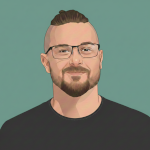
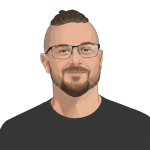
Design and profile image improvements

diff --git a/src/frontend/styles/theme.css b/src/frontend/styles/theme.css
@@ -6,7 +6,7 @@
 
   /* COLOUR SCHEME */
   --colour-black: #000000;
-  --colour-gray: #888888;
+  --colour-gray: #999999;
   --colour-white: #FFFFFF;
   --colour-highlight: #23C5B0;
   --colour-background: var(--colour-black);
@@ -15,10 +15,10 @@
   --colour-tertiary: #115F55;
 
   /* LINKS */
-  --link-decoration-default: underline wavy var(--colour-tertiary) 2px;
-  --link-decoration-nav: underline wavy var(--colour-secondary) 2px;
-  --link-decoration-active: underline wavy var(--colour-highlight) 2px;
-  --link-decoration-underline-offset: 6px;
+  --link-decoration-default: underline solid var(--colour-tertiary) 1px;
+  --link-decoration-nav: underline solid var(--colour-secondary) 1px;
+  --link-decoration-active: underline solid var(--colour-highlight) 1px;
+  --link-decoration-underline-offset: 7px;
 
   /* CODE BLOCKS */
   --colour-code-method: var(--colour-highlight);

diff --git a/src/frontend/styles/content.css b/src/frontend/styles/content.css
@@ -92,20 +92,19 @@ a:focus {
 }
 
 .header-title .site-link {
+  color: var(--colour-tertiary);
   display: flex;
   flex-direction: row;
   align-items: center;
   gap: 12px;
-  color: var(--colour-black);
   text-decoration: none;
 }
 
 .site-avatar {
-  width: 84px;
-  height: 84px;
+  width: 150px;
+  height: 150px;
   border-radius: 50%;
-  border: 1px solid var(--colour-secondary);
-  margin-right: 6px;
+  margin-right: 16px;
 }
 
 .site-name {
@@ -336,6 +335,8 @@ ul.posts-list .post-date {
 .content-body em,
 .content-body strong,
 .content-body p code {
-  color: var(--colour-gray);
+  background-color: var(--colour-tertiary);
+  color: var(--colour-foreground);
+  padding: 2px;
   font-style: normal;
 }

diff --git a/src/frontend/styles/responsive.css b/src/frontend/styles/responsive.css
@@ -10,6 +10,11 @@
     padding: 16px 0 0;
   }
 
+  .layout-container .header .site-avatar {
+    width: 80px;
+    height: 80px;
+  }
+
   .layout-container .main-content {
     padding: 32px 16px 0;
   }
